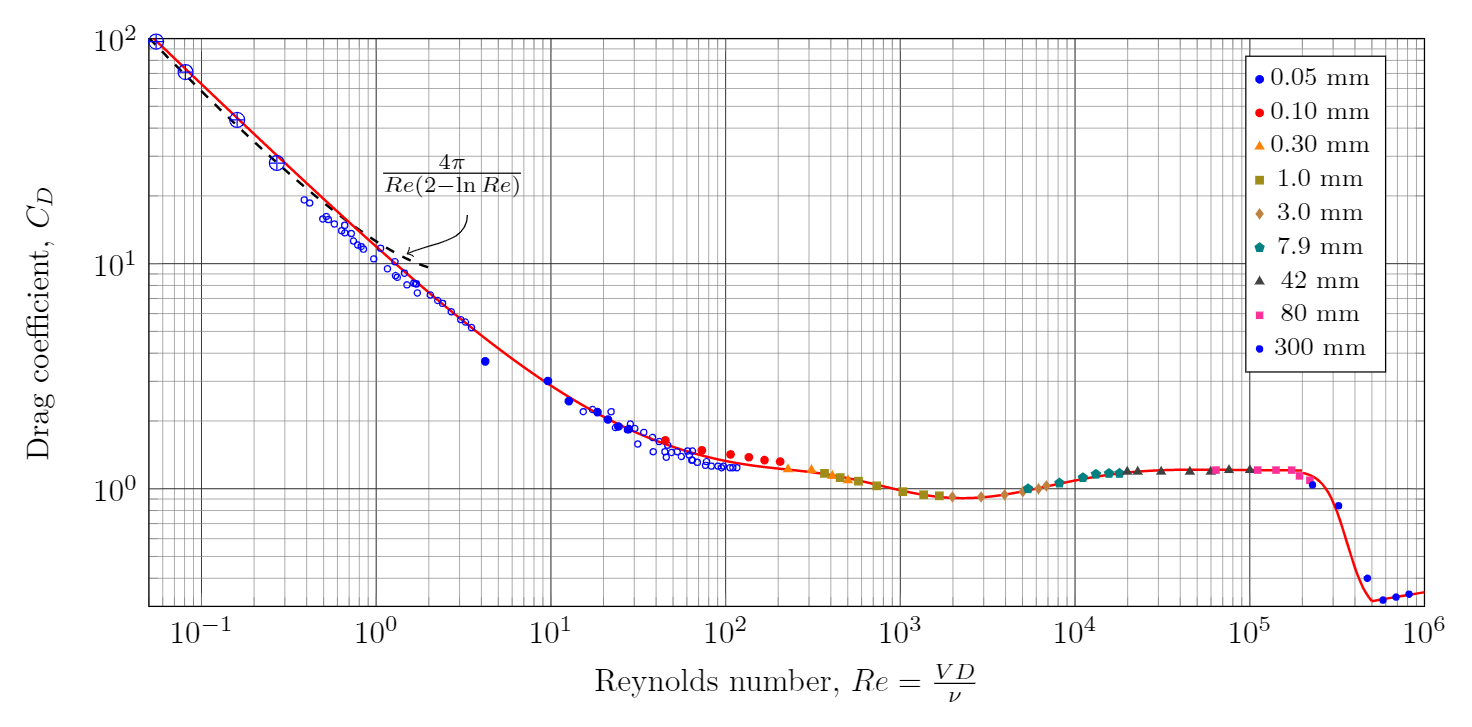
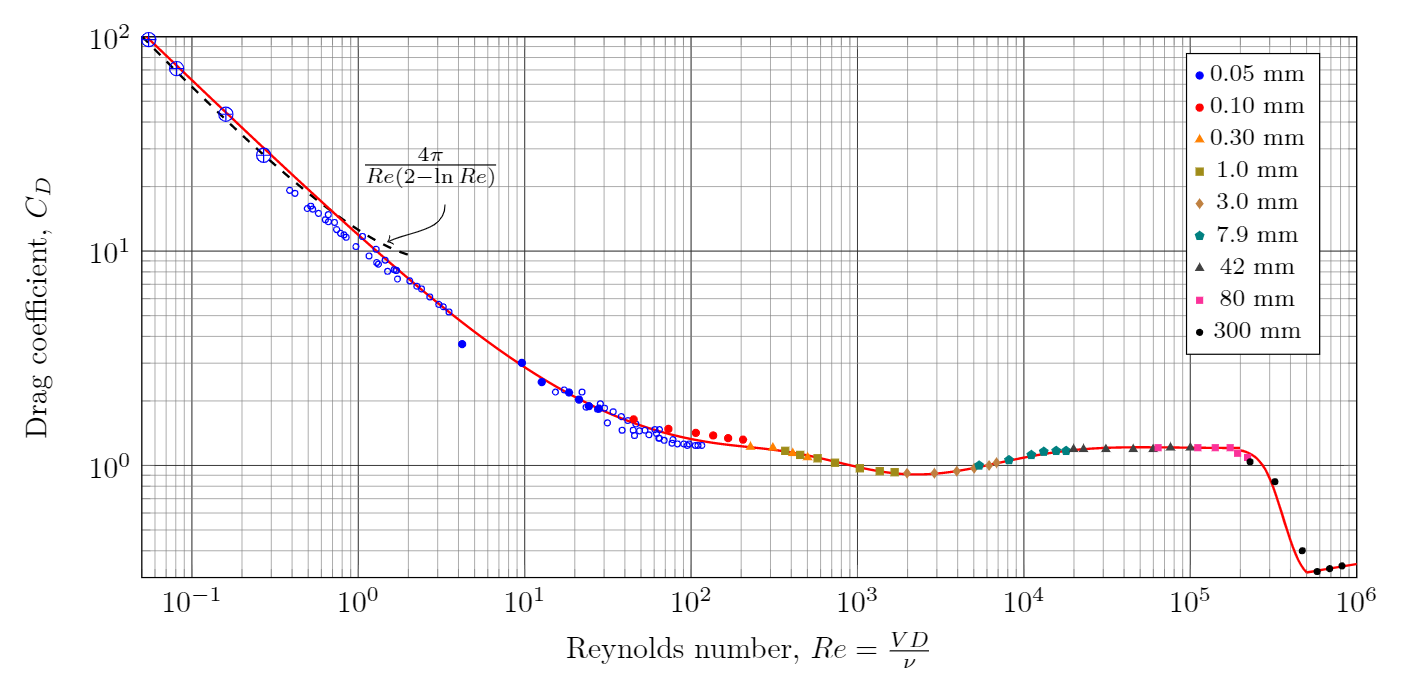
drag

diff --git a/teaching/Applied-Fluids/DragCoefficient.html b/teaching/Applied-Fluids/DragCoefficient.html
@@ -2,12 +2,12 @@
 <!DOCTYPE html>
 <html>
    <head>
-      <title>Atmospheric Properties</title>
+      <title>Drag Coefficient Calculator</title>
       <meta name="viewport" content="width=device-width, initial-scale=1">
       <meta charset="utf-8">
       <meta name="author" content="Kevin Dusling" />
       <meta NAME="ROBOTS" CONTENT="INDEX, FOLLOW">
-      <meta name="description" content="The 1976 U.S. Standard Atmosphere">
+      <meta name="description" content="Drag Coefficient Calculator">
 
       <link rel="stylesheet" type="text/css" href="style.css">
 
@@ -56,12 +56,28 @@
 	    return 0.;
     }
 
+    function DragCylinder(Re){
+
+      w = Math.log10(Re);
+      if (Re <= 200000) {
+        return 11.*Math.pow(Re,-0.75) + 0.9*(1.0-Math.exp(-1000./Re))+1.2*(1.0-Math.exp(-Math.pow(Re/4500.,0.7)));
+      }
+      if (Re <= 500000) {
+        return Math.pow(10, -0.32*(Math.tanh(8.*(w-5.5563))+1.0)+0.081206842);
+      }
+      if (Re > 500000) {
+        return 0.1*w - 0.2533429;
+      }
+
+      return 0.;
+    }
+
 
 function update(){
 
   var Restr =document.getElementById("Re").value;
   var Re = parseFloat( Restr.replace(/[^\d\.]/g,'') );
-  var units = document.getElementById("units").value;
+  var shape = document.getElementById("shape").value;
 
 
   var table = document.getElementById("myTable");
@@ -83,15 +99,23 @@ function update(){
   return;
   }
 
+  var Cd=0;
+
+  if (shape == "Smooth Sphere")
+  {
+    Cd=DragSphere(Re);
+  }
+
+  if (shape == "Long Smooth Cylinder")
+  {
+    Cd=DragCylinder(Re);
+  }
+
   var row = table.insertRow(-1);
   var cell = row.insertCell(-1);
   //cell.innerHTML =  "Re";
   //cell = row.insertCell(-1);
-  var i;
-  for (i = -1; i < 6; i+=.1) {
-  Re = Math.pow(10,i);
-  cell.innerHTML +=  Re + ", " + DragSphere(Re) + "<BR>";
-}
+  cell.innerHTML = Cd + "<BR>";
 
 
 
@@ -105,16 +129,15 @@ function update(){
 
 <body>
 
-  <h1 style="color: #2980b9; font-weight: 900;" id=title>The 1976 U.S. Standard Atmosphere</h1>
+  <h1 style="color: #2980b9; font-weight: 900;" id=title>Drag Coefficient Calculator</h1>
 
 <div style="display: inline-block; vertical-align: top; font-size: 18px">
-  Reynolds number: <input name="Re" type="text" id="Re">
-  <select id="units">
-     <option id="km">kilometers</option>
-     <option id="ft">feet</option>
-     <option id="ft">meters</option>
-     <option id="ft">miles</option>
+  <select id="shape">
+     <option id="sph">Smooth Sphere</option>
+     <option id="cyl">Long Smooth Cylinder</option>
   </select>
+  Reynolds number: <input name="Re" type="text" id="Re">
+
   <button type="button" onclick="update()">Compute</button>
 
 

diff --git a/teaching/Applied-Fluids/Notes/DragAndLift.md b/teaching/Applied-Fluids/Notes/DragAndLift.md
@@ -1,6 +1,6 @@
 ---
 layout: course
-title: HVAC systems
+title: Drag and Lift
 ---
 
 $$
@@ -43,12 +43,28 @@ $$
 * A markdown unordered list for the toc
 {:toc}
 
+If an object is moving with respect to a fluid
+
+# Drag Force
+
+The drag force on an object is
+
+$$
+F_D=C_D \left(\frac{\rho}{v^2}{2}\right) A
+$$
+
+In the above expression, $C_D$ is a dimensionless number known as the drag coefficient.  It depends on the shape and orientation of the body.  $rho$ is the density of the fluid.  $v$ is the velocity of the stream of fluid relative to the body. The stream could be moving with velocity $v$ while the body is at rest, of the fluid could be at rest and with the body moving with velocity $v$.
+
 # Spheres
 
 <div class="photo" style="width: 600px;">
   <img src="img/DragSphere.png" alt="Drag coefficient for a smooth sphere as a function of Reynolds number.">
   <p>
   Drag coefficient for a smooth sphere as a function of Reynolds number.
+  Open triangles are data from <a href="https://doi.org/10.1017/S002211206500143X">Maxworthy, 1965</a>.
+  Open squares are data from <a href="https://doi.org/10.2514/3.6164">Roos and Willmarth, 1971</a>.  
+  The remaining data points are from earlier experiments,
+  https://doi.org/10.1007/978-3-662-52919-5>Schlichting, 1979</a>
   </p>
 </div>
 
@@ -56,7 +72,7 @@ $$
 <div class="photo" style="width: 600px;">
   <img src="img/DragCylinder.png" alt="Drag coefficient for a smooth sphere as a function of Reynolds number.">
   <p>
-  Drag coefficient for a smooth circular cylinder as a function of Reynolds number.
+  Drag coefficient for a long smooth circular cylinder as a function of Reynolds number.  The circles with plus, ⊕,  are data from <a href="https://doi.org/10.1017/S002211206500109X">Jayaweera and Mason</a>.  The open circles are data from <a href="https://doi.org/10.1017/S0022112059000829">Tritton, 1959</a>.    The remaining data is from <a ref=https://ntrs.nasa.gov/search.jsp?R=19930080855">Wieselsberger, 1922</a> and has legend entries corresponding to the various cylinder diameters employed in that work.
   </p>
 </div>
 
